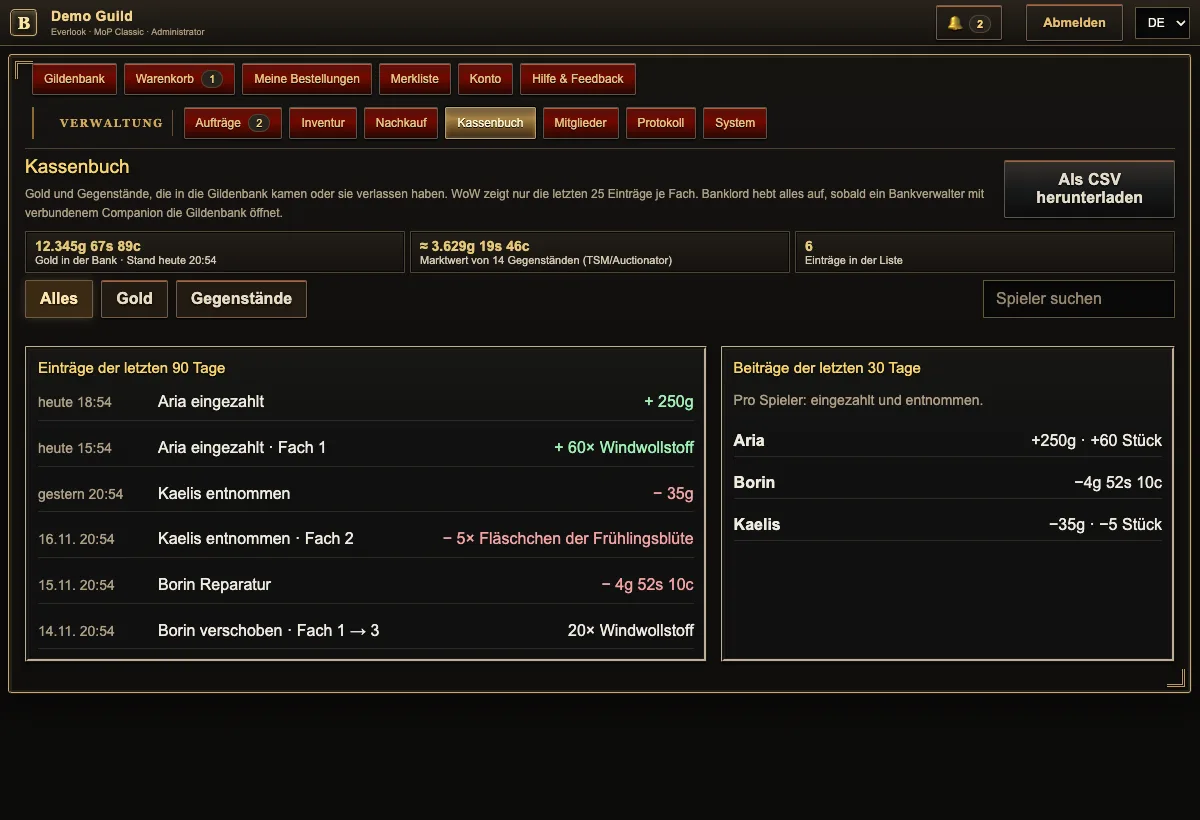
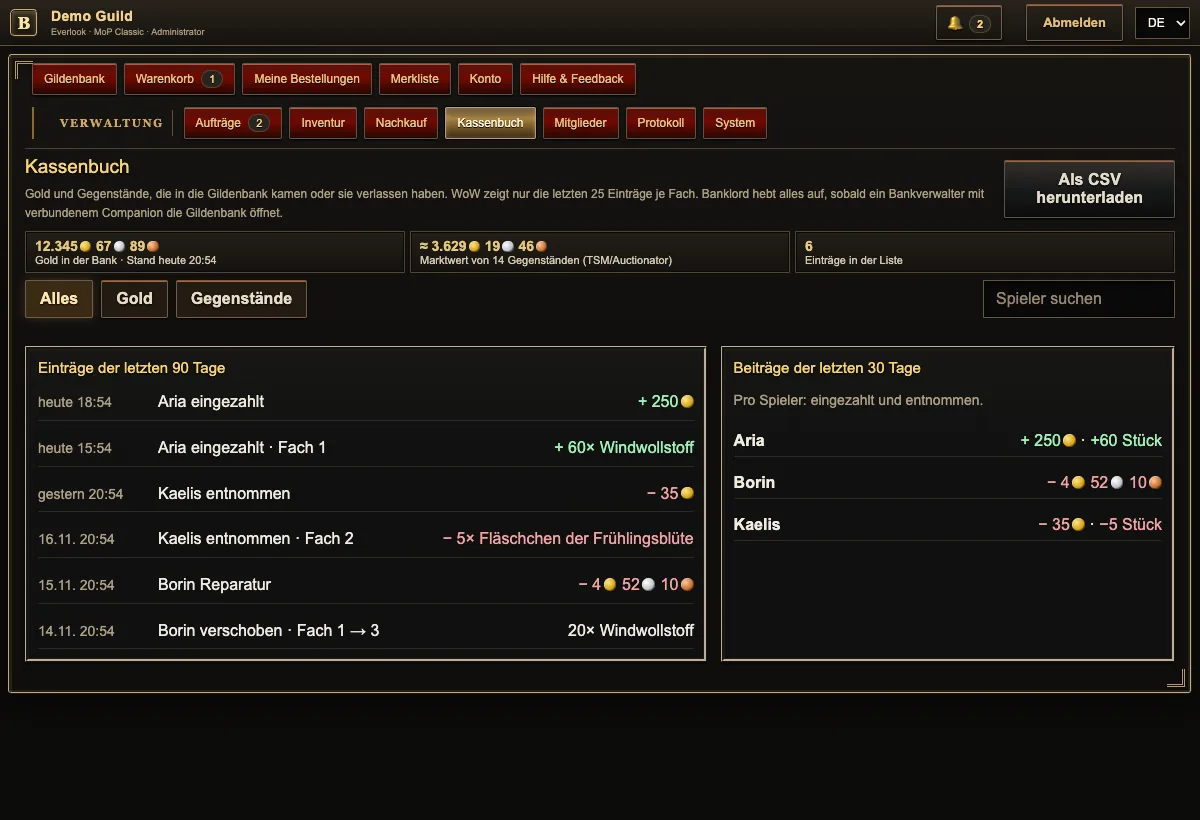
1.9.1: Kassenbuch im Spiel neu, Gold wie im Spiel, Storno-Hinweis, Pfeil-Glyphen
- In-game cash book: read-only window with tabs (overview per player, gold, items), columns, green/red amounts
- Gold shown like the game (coin icons, thousands separator) in game and on the website
- Shopping list copyable but no longer editable
- Visible hint under 'Meine Bestellungen': right-click cancels
- Replaced '→' (empty box in WoW fonts) and added a font charset test
- Steps line in Orders tab now describes the one-click flow

diff --git a/backend/public/app.js b/backend/public/app.js
@@ -393,7 +393,7 @@ function renderItemDetail(){
   note.append(el('p','','Inventur: '+qty(item.physical_qty)+' Stück'),el('p','','Reserviert: '+qty(item.reserved_qty)+' Stück'),
     el('p',item.available_qty===null?'status-warn':'status-available',item.available_qty===null?'Verfügbarkeit nicht bestätigt':'Anforderbar: '+qty(item.available_qty)+' Stück'),
     ...(Number(item.viewonly_qty)>0?[el('p','muted','Davon nur ansehen (gesperrter Tab): '+qty(item.viewonly_qty)+' Stück')]:[]),
-    ...(item.unit_price?[el('p','muted','Marktwert: '+gold(item.unit_price)+' pro Stück ('+(item.price_source==='tsm'?'TSM':'Auctionator')+')')]:[]),
+    ...(item.unit_price?[add(el('p','muted'),'Marktwert: ',coins(item.unit_price),' pro Stück ('+(item.price_source==='tsm'?'TSM':'Auctionator')+')')]:[]),
     el('p','muted','Bestands-ID: '+item.stock_id+' · WoW-Item: '+item.wow_item_id));
   root.append(note);
   const tooltipBtn=el('button','secondary button-sm wow-detail-tooltip',T('openValues'));tooltipBtn.type='button';tooltipBtn.onclick=e=>{showTooltip(item,e,true);placeTooltip(e);};root.append(tooltipBtn);
@@ -1176,12 +1176,17 @@ $('saveGameVersion').onclick=async()=>{
 };
 
 // Gold amounts like in game: 1.234g 56s 78c (silver/copper only when not zero).
+// Gold like in game: 1.661 (gold coin) 57 (silver coin) 61 (copper coin).
+function coins(copper){const c=Math.max(0,Math.round(Number(copper)||0));const g=Math.floor(c/10000),si=Math.floor(c%10000/100),co=c%100;
+  const out=el('span','coins');out.title=gold(c);
+  const part=(n,k)=>{out.append(document.createTextNode(n),el('span','coin coin-'+k));};
+  if(g)part(qty(g),'g');if(si)part(String(si),'s');if(co||(!g&&!si))part(String(co),'c');return out;}
 function gold(copper){const c=Math.max(0,Math.round(Number(copper)||0));const g=Math.floor(c/10000),si=Math.floor(c%10000/100),co=c%100;
   return [g?qty(g)+'g':'',si?si+'s':'',co||(!g&&!si)?co+'c':''].filter(Boolean).join(' ');}
 // Bank gold and estimated value for everyone (from the last bank visit of a bank manager).
 function bankStats(){const b=state.bankSummary;if(!b)return[];const out=[];
-  if(b.money)out.push(add(el('div','stat'),el('strong','',gold(b.money.copper)),el('span','','Gold in der Gildenbank')));
-  if(b.stock_value&&b.stock_value.priced_items>0)out.push(add(el('div','stat'),el('strong','','≈ '+gold(b.stock_value.copper)),el('span','','Marktwert der Gegenstände')));
+  if(b.money)out.push(add(el('div','stat'),add(el('strong'),coins(b.money.copper)),el('span','','Gold in der Gildenbank')));
+  if(b.stock_value&&b.stock_value.priced_items>0)out.push(add(el('div','stat'),add(el('strong'),'≈ ',coins(b.stock_value.copper)),el('span','','Marktwert der Gegenstände')));
   return out;}
 async function loadBankSummary(){try{state.bankSummary=await api(path('bank-log/summary?days=30'));if(state.items)renderItems();}catch(_e){state.bankSummary=null;}}
 const LEDGER_ACTION={deposit:['eingezahlt','in'],withdraw:['entnommen','out'],move:['verschoben',''],repair:['Reparatur','out'],withdrawForTab:['für Fach entnommen','out'],buyTab:['Fach gekauft','out'],depositSummary:['Einzahlung (gesammelt)','in']};
@@ -1191,18 +1196,22 @@ async function loadLedger(){
   const [sum,list]=await Promise.all([api(path('bank-log/summary?days=30')),api(path('bank-log?days=90&kind='+encodeURIComponent(state.ledgerKind)+'&player='+encodeURIComponent(player)))]);
   state.bankSummary=sum;
   const stats=$('ledgerStats');stats.replaceChildren(
-    add(el('div','stat'),el('strong','',sum.money?gold(sum.money.copper):'–'),el('span','',sum.money?'Gold in der Bank · Stand '+when(sum.money.observed_at):'Noch kein Goldstand erfasst')),
-    add(el('div','stat'),el('strong','',sum.stock_value.priced_items?'≈ '+gold(sum.stock_value.copper):'–'),el('span','',sum.stock_value.priced_items?'Marktwert von '+qty(sum.stock_value.priced_items)+' Gegenständen (TSM/Auctionator)':'Kein Marktwert: TSM oder Auctionator beim Bankverwalter nötig')),
+    add(el('div','stat'),add(el('strong'),sum.money?coins(sum.money.copper):'–'),el('span','',sum.money?'Gold in der Bank · Stand '+when(sum.money.observed_at):'Noch kein Goldstand erfasst')),
+    add(el('div','stat'),add(el('strong'),...(sum.stock_value.priced_items?['≈ ',coins(sum.stock_value.copper)]:['–'])),el('span','',sum.stock_value.priced_items?'Marktwert von '+qty(sum.stock_value.priced_items)+' Gegenständen (TSM/Auctionator)':'Kein Marktwert: TSM oder Auctionator beim Bankverwalter nötig')),
     add(el('div','stat'),el('strong','',qty(list.entries.length)),el('span','','Einträge in der Liste')));
   const root=$('ledgerEntries');root.replaceChildren();
   for(const e of list.entries){const [text,dir]=LEDGER_ACTION[e.action]||[e.action,''];
-    const what=e.kind==='money'?gold(e.quantity):qty(e.quantity)+'× '+(e.item_name||('Item '+e.wow_item_id));
+    const what=e.kind==='money'?coins(e.quantity):qty(e.quantity)+'× '+(e.item_name||('Item '+e.wow_item_id));
     const where=e.kind==='item'?(e.action==='move'?' · Fach '+e.tab_no+' → '+e.tab_to:' · Fach '+e.tab_no):'';
-    root.append(add(el('div','ledger-row'),el('span','muted',when(e.happened_at)),el('span','',e.player+' '+text+where),el('span','amount'+(dir?' amount-'+dir:''),(dir==='in'?'+ ':dir==='out'?'− ':'')+what)));}
+    root.append(add(el('div','ledger-row'),el('span','muted',when(e.happened_at)),el('span','',e.player+' '+text+where),add(el('span','amount'+(dir?' amount-'+dir:'')),(dir==='in'?'+ ':dir==='out'?'− ':''),what)));}
   if(!list.entries.length)root.append(el('p','muted','Noch keine Einträge. Sie erscheinen, sobald ein Bankverwalter mit Banklord 0.13 oder neuer die Gildenbank öffnet und danach /reload macht.'));
   const people=$('ledgerPlayers');people.replaceChildren();
-  for(const p of sum.players){const parts=[];if(p.gold_in)parts.push('+'+gold(p.gold_in));if(p.gold_out)parts.push('−'+gold(p.gold_out));if(p.items_in)parts.push('+'+qty(p.items_in)+' Stück');if(p.items_out)parts.push('−'+qty(p.items_out)+' Stück');
-    people.append(add(el('div','ledger-row'),el('strong','',p.player),el('span','muted',''),el('span','amount',parts.join(' · '))));}
+  for(const p of sum.players){const parts=[];const sep=()=>{if(parts.length)parts.push(' · ');};
+    if(p.gold_in){sep();parts.push(add(el('span','amount-in'),'+ ',coins(p.gold_in)));}
+    if(p.gold_out){sep();parts.push(add(el('span','amount-out'),'− ',coins(p.gold_out)));}
+    if(p.items_in){sep();parts.push(el('span','amount-in','+'+qty(p.items_in)+' Stück'));}
+    if(p.items_out){sep();parts.push(el('span','amount-out','−'+qty(p.items_out)+' Stück'));}
+    people.append(add(el('div','ledger-row'),el('strong','',p.player),el('span','muted',''),add(el('span','amount'),...parts)));}
   if(!sum.players.length)people.append(el('p','muted','Noch keine Beiträge erfasst.'));
 }
 $('ledgerFilter').addEventListener('click',e=>{const b=e.target.closest('button[data-kind]');if(!b)return;state.ledgerKind=b.dataset.kind;

diff --git a/backend/public/app.html b/backend/public/app.html
@@ -10,9 +10,9 @@
   <link rel="preconnect" href="https://fonts.googleapis.com" crossorigin>
   <link rel="preconnect" href="https://fonts.gstatic.com" crossorigin>
   <link rel="stylesheet" href="https://fonts.googleapis.com/css2?family=Cinzel+Decorative:wght@400;700&amp;display=swap">
-  <link rel="stylesheet" href="app.css?v=1.9.0">
-  <script defer src="locales.js?v=1.9.0"></script>
-  <script defer src="app.js?v=1.9.0"></script>
+  <link rel="stylesheet" href="app.css?v=1.9.1">
+  <script defer src="locales.js?v=1.9.1"></script>
+  <script defer src="app.js?v=1.9.1"></script>
 </head>
 <body>
   <header class="topbar"><div class="brand"><span class="brandmark">B</span><div><strong id="guildTitle">Banklord</strong><small id="guildSub">Gildenbank · Bestellungen</small></div></div><div class="account"><select id="guildSelector" class="hidden" aria-label="Gilde wählen"></select><button type="button" class="bell hidden" id="bellBtn" title="Mitteilungen" aria-label="Mitteilungen">🔔<span id="notificationCount" class="count">0</span></button><span id="userBadge" class="muted">Nicht angemeldet</span><button class="link hidden" id="logoutBtn" data-i18n="logout">Abmelden</button><select id="languagePicker" aria-label="Sprache wählen" class="lang"><option value="deDE">DE</option><option value="enUS">EN</option></select></div></header>
@@ -64,5 +64,5 @@
     </section>
     <div id="toast" class="toast hidden" role="status" aria-live="polite"></div><div id="wowItemTooltip" class="wow-item-tooltip hidden" role="tooltip"></div>
   </main>
-  <footer><a class="bl-download" id="downloadMain" href="/api/v1/download/setup" rel="nofollow">⬇ Windows-Setup herunterladen</a> (Addon, Companion, automatische Updates) <span class="muted" id="windowsHint">· Windows warnt beim ersten Start vor einer unbekannten App: auf „Weitere Informationen“ und dann „Trotzdem ausführen“ klicken. Updates laufen danach ohne Warnung.</span> · <span class="muted">Weitere Systeme: <a href="/api/v1/download/setup" rel="nofollow">Windows</a>, <a href="/api/v1/download/setup?os=mac-arm64" rel="nofollow">macOS (Apple Silicon)</a>, <a href="/api/v1/download/setup?os=mac-intel" rel="nofollow">macOS (Intel)</a>, <a href="/api/v1/download/setup?os=linux-x64" rel="nofollow">Linux</a></span> · <a href="https://github.com/lastrevolution0410/banklord" rel="noopener" target="_blank">Banklord 1.9.0</a> (<a href="/api/v1/docs/neuigkeiten" rel="noopener" target="_blank">Was ist neu?</a>) © Björn Thiel Ebert, <a href="https://github.com/lastrevolution0410/banklord/blob/main/LICENSE-ADDITIONAL-PERMISSIONS.md" rel="noopener" target="_blank">CC BY-NC-ND 4.0, Selbst-Hosting erlaubt</a> · Unbestätigte Scans sind keine Live-Bankbestände · Keine Blizzard-Kontodaten erforderlich · WoW und Originalgrafiken © Blizzard Entertainment; unabhängiges, nichtkommerzielles Fanprojekt</footer>
+  <footer><a class="bl-download" id="downloadMain" href="/api/v1/download/setup" rel="nofollow">⬇ Windows-Setup herunterladen</a> (Addon, Companion, automatische Updates) <span class="muted" id="windowsHint">· Windows warnt beim ersten Start vor einer unbekannten App: auf „Weitere Informationen“ und dann „Trotzdem ausführen“ klicken. Updates laufen danach ohne Warnung.</span> · <span class="muted">Weitere Systeme: <a href="/api/v1/download/setup" rel="nofollow">Windows</a>, <a href="/api/v1/download/setup?os=mac-arm64" rel="nofollow">macOS (Apple Silicon)</a>, <a href="/api/v1/download/setup?os=mac-intel" rel="nofollow">macOS (Intel)</a>, <a href="/api/v1/download/setup?os=linux-x64" rel="nofollow">Linux</a></span> · <a href="https://github.com/lastrevolution0410/banklord" rel="noopener" target="_blank">Banklord 1.9.1</a> (<a href="/api/v1/docs/neuigkeiten" rel="noopener" target="_blank">Was ist neu?</a>) © Björn Thiel Ebert, <a href="https://github.com/lastrevolution0410/banklord/blob/main/LICENSE-ADDITIONAL-PERMISSIONS.md" rel="noopener" target="_blank">CC BY-NC-ND 4.0, Selbst-Hosting erlaubt</a> · Unbestätigte Scans sind keine Live-Bankbestände · Keine Blizzard-Kontodaten erforderlich · WoW und Originalgrafiken © Blizzard Entertainment; unabhängiges, nichtkommerzielles Fanprojekt</footer>
 </body></html>

diff --git a/backend/public/app.css b/backend/public/app.css
@@ -625,3 +625,8 @@ details.panel>summary{cursor:pointer;font-weight:700;color:#f1d48f}
 .login-again{font-size:18px;margin:26px 0 0}
 .doc img{display:block;max-width:100%;height:auto;margin:12px 0;border:1px solid var(--outline);border-radius:10px}
 .doc li img{margin:8px 0 4px}
+
+/* Coins like in game: number followed by a gold, silver or copper coin */
+.coins{white-space:nowrap}.coin{display:inline-block;width:.8em;height:.8em;border-radius:50%;margin:0 .35em 0 .15em;vertical-align:-.05em;box-shadow:inset -1px -1px 0 #0006,inset 1px 1px 0 #fff5}
+.coin-g{background:radial-gradient(circle at 35% 35%,#ffe680,#d4a017 60%,#8a6508)}.coin-s{background:radial-gradient(circle at 35% 35%,#ffffff,#b8c0c8 60%,#6d757d)}.coin-c{background:radial-gradient(circle at 35% 35%,#ffc89a,#c26a2b 60%,#7a3a12)}
+.coins .coin:last-child{margin-right:0}

diff --git a/upgrade-web.php b/upgrade-web.php
@@ -6,13 +6,13 @@ declare(strict_types=1);
  * requires an unmodified release archive and backs up SQL + files outside webroot.
  * This is NOT a remotely self-updating endpoint.
  */
-const BANKLORD_VERSION='1.9.0';
[1 lines of base64/hex data omitted]
+const BANKLORD_VERSION='1.9.1';
[1 lines of base64/hex data omitted]
 const BANKLORD_FILE_DIGESTS = [
[10 lines of base64/hex data omitted]
@@ -65,22 +65,22 @@ const BANKLORD_FILE_DIGESTS = [
[29 lines of base64/hex data omitted]
@@ -97,7 +97,7 @@ const BANKLORD_FILE_DIGESTS = [
[8 lines of base64/hex data omitted]

diff --git a/tests/addon_charset_test.php b/tests/addon_charset_test.php
@@ -1,0 +1,13 @@
+<?php
+// WoW's standard fonts only cover Latin-1 plus the Windows-1252 extras; anything
+// else (e.g. "→") shows as an empty box in game.
+declare(strict_types=1);
+$extra='€‚ƒ„…†‡ˆ‰Š‹ŒŽ‘’“”•–—˜™š›œžŸ';
+$allowed=[];foreach (mb_str_split($extra) as $c) $allowed[$c]=true;
+$bad=[];
+foreach (glob(__DIR__.'/../Banklord/*.lua') as $f) foreach (file($f) as $n=>$line) {
+    if (preg_match('/^\s*--/',$line)) continue;
+    foreach (mb_str_split($line) as $c) if (mb_ord($c)>0xFF && !isset($allowed[$c])) $bad[]=basename($f).':'.($n+1).' '.$c;
+}
+if ($bad) { echo "FAIL: characters the WoW font cannot show: ".implode(', ',array_slice($bad,0,10))."\n"; exit(1); }
+echo "PASS: addon texts only use characters the WoW font can show\n";

diff --git a/app/manage.go b/app/manage.go
@@ -17,7 +17,7 @@ import (
 	"time"
 )
 
-const setupVersion = "1.9.0"
+const setupVersion = "1.9.1"
 const bundledCompanionVersion = "0.14.0"
 
 // ComponentStatus is a read-only inspection. Installation decisions are derived anew on POST.

diff --git a/backend/src/Version.php b/backend/src/Version.php
@@ -5,5 +5,5 @@ namespace Banklord;
 
 /** Website version; set by dev/tools/build_release.py. */
 final class Version {
-    public const WEB = '1.9.0';
+    public const WEB = '1.9.1';
 }

diff --git a/docs/bankverwalter.md b/docs/bankverwalter.md
@@ -136,7 +136,7 @@ Unter **Mitglieder** lädst du neue Mitglieder ein und vergibst Rollen.
 
 ## Kassenbuch, Bankwert und Discord
 
-- **Kassenbuch** (Website → Verwaltung → Kassenbuch): Jedes Mal, wenn du die Gildenbank öffnest, liest Banklord das Bankprotokoll aus – Gold und Gegenstände, wer was eingezahlt oder entnommen hat. WoW zeigt nur die letzten 25 Einträge je Fach; Banklord hebt alles auf. Nach dem nächsten `/reload` überträgt der Companion es. Filter nach Gold, Gegenständen oder Spieler, Download als CSV für Tabellen. **Im Spiel** zeigt **Aufträge → Kassenbuch** (oder `/bl kasse`) den Goldstand und die letzten Einträge.
+- **Kassenbuch** (Website → Verwaltung → Kassenbuch): Jedes Mal, wenn du die Gildenbank öffnest, liest Banklord das Bankprotokoll aus – Gold und Gegenstände, wer was eingezahlt oder entnommen hat. WoW zeigt nur die letzten 25 Einträge je Fach; Banklord hebt alles auf. Nach dem nächsten `/reload` überträgt der Companion es. Filter nach Gold, Gegenständen oder Spieler, Download als CSV für Tabellen. **Im Spiel** zeigt **Aufträge → Kassenbuch** (oder `/bl kasse`) den Goldstand mit Münzen wie im Spiel und die letzten Einträge – sortiert in **Übersicht** (pro Spieler eingezahlt, entnommen, Saldo), **Gold** und **Gegenstände**.
 - **Goldstand und Bankwert:** Der Goldstand der Gildenbank wird beim Öffnen mitgenommen. Hast du **TSM** oder **Auctionator** installiert, nimmt Banklord den Marktpreis jedes Gegenstands mit. Die Website zeigt dann den geschätzten Wert der ganzen Bank und pro Gegenstand.
 - **Discord** (Website → System, nur Administratoren): Webhook-URL eines Kanals einfügen und wählen, was gemeldet wird – neue Bestellungen, Freigabe nötig, verschickt, unter Mindestbestand. Mit „Testnachricht“ prüfen.
 - **Dringende Bestellungen** sind in Aufträgen mit **„Dringend“** markiert, im Spiel mit einem roten **!** vor der Nummer und stehen oben.

diff --git a/docs/bankverwalter.en.md b/docs/bankverwalter.en.md
@@ -138,7 +138,7 @@ Under **Members** you invite new members and assign roles.
 
 ## Cash book, bank value and Discord
 
-- **Cash book** (website → Management → Cash book): every time you open the guild bank, Banklord reads the bank log – gold and items, who deposited or withdrew what. WoW only shows the last 25 entries per tab; Banklord keeps everything. The Companion uploads it after the next `/reload`. Filter by gold, items or player, download as CSV for spreadsheets. **In game**, **Orders → Cash book** (or `/bl kasse`) shows the gold and the latest entries.
+- **Cash book** (website → Management → Cash book): every time you open the guild bank, Banklord reads the bank log – gold and items, who deposited or withdrew what. WoW only shows the last 25 entries per tab; Banklord keeps everything. The Companion uploads it after the next `/reload`. Filter by gold, items or player, download as CSV for spreadsheets. **In game**, **Orders → Cash book** (or `/bl kasse`) shows the gold with coins like in the game and the latest entries – sorted into **Overview** (deposited, withdrawn and balance per player), **Gold** and **Items**.
 - **Gold and bank value:** the guild bank's gold is recorded when you open it. With **TSM** or **Auctionator** installed, Banklord records each item's market price. The website then shows the estimated value of the whole bank and per item.
 - **Discord** (website → System, administrators only): paste a channel's webhook URL and choose what is announced – new orders, approval needed, sent, below minimum stock. Check it with "Test message".
 - **Urgent orders** are marked **“Urgent”** under Orders; in game they have a red **!** before the number and are listed first.

diff --git a/docs/neuigkeiten.md b/docs/neuigkeiten.md
@@ -23,6 +23,9 @@ Ideen ohne festen Termin. Wünsche gern über **Hilfe & Feedback → Idee vorsch
 ### 1.9 – WoW Forever (18.11.2026)
 - **WoW Forever wird unterstützt:** eigene Spielversion auf der Website, das Setup erkennt den Ordner `_forever_`, Addon, Companion und Wowhead-Links passen dazu. Forever hat keine Realms; Gilden werden dann am Namen erkannt.
 - Anleitungsseiten zeigen jetzt auch das Banklord-Symbol im Browser-Tab.
+- 1.9.1: **Kassenbuch im Spiel neu:** übersichtliches Fenster mit Übersicht pro Spieler, Gold und Gegenständen in Spalten, Einzahlungen grün, Entnahmen rot, nicht mehr beschreibbar (auch die Einkaufsliste lässt sich nur noch kopieren, nicht mehr ändern). **Gold wie im Spiel** mit Münz-Symbolen und Tausenderpunkt (1.661 ● 57 ● 61 ●) – im Spiel und auf der Website.
+- 1.9.1: Pfeile, die im Spiel als leere Kästchen erschienen, sind ersetzt.
+- 1.9.1: Im Spiel steht unter **„Meine Bestellungen“** sichtbar „Rechtsklick auf eine Bestellung: stornieren“, sobald etwas stornierbar ist.
 
 ### 1.8 – Einfacher geht's nicht (18.11.2026)
 - **Kein `/reload` mehr tippen:** An den wichtigen Stellen fragt Banklord im Spiel mit einem Fenster und dem Knopf **„Jetzt übertragen“** – nach der Bestätigung als neues Mitglied, nach einer Bestellung, für Verwalter nach dem Bestätigen eines Mitglieds und beim Schließen des Briefkastens nach dem Versenden. Nie im Kampf.

diff --git a/docs/neuigkeiten.en.md b/docs/neuigkeiten.en.md
@@ -23,6 +23,9 @@ Ideas without a fixed date. Send wishes via **Help & feedback → Suggest an ide
 ### 1.9 – WoW Forever (18 Nov 2026)
 - **WoW Forever is supported:** its own game version on the website, the setup recognises the `_forever_` folder, addon, Companion and Wowhead links match. Forever has no realms; guilds are then recognised by name.
 - Guide pages now show the Banklord icon in the browser tab too.
+- 1.9.1: **New in-game cash book:** clear window with an overview per player, gold and items in columns, deposits green, withdrawals red, no longer editable (the shopping list can only be copied, not changed, too). **Gold like in the game** with coin icons and thousands separators (1,661 ● 57 ● 61 ●) – in game and on the website.
+- 1.9.1: arrows that showed as empty boxes in game are replaced.
+- 1.9.1: in game, **“My orders”** shows “Right-click an order: cancel” whenever something can be cancelled.
 
 ### 1.8 – As simple as it gets (18 Nov 2026)
 - **No more typing `/reload`:** at the important moments Banklord shows a window in game with a **“Transfer now”** button – after you are confirmed as a new member, after an order, for managers after confirming a member and when closing the mailbox after sending. Never in combat.

diff --git a/docs/mitglieder.md b/docs/mitglieder.md
@@ -89,6 +89,8 @@ Ist längere Zeit kein Verwalter online, kann dir ein Admin auf der Website unte
 
 5. Es erscheint ein Fenster: **„Jetzt übertragen“** klicken. Damit geht die Bestellung sofort an die Bankverwaltung. (Klickst du „Später“, geht sie beim nächsten Ausloggen raus.)
 
+**Vertan?** Rechtsklick auf die Bestellung rechts unter **„Meine Bestellungen“** storniert sie (der Hinweis steht auch direkt darunter). Auf der Website gibt es dafür den Knopf **„Bestellung / Restmenge stornieren“**.
+
 Der Bestand im Spiel ist der Stand vom letzten Scan der Gildenbank. Was „reserviert“ ist, hat schon jemand anderes bestellt.
 
 ## Bestellen auf der Website
